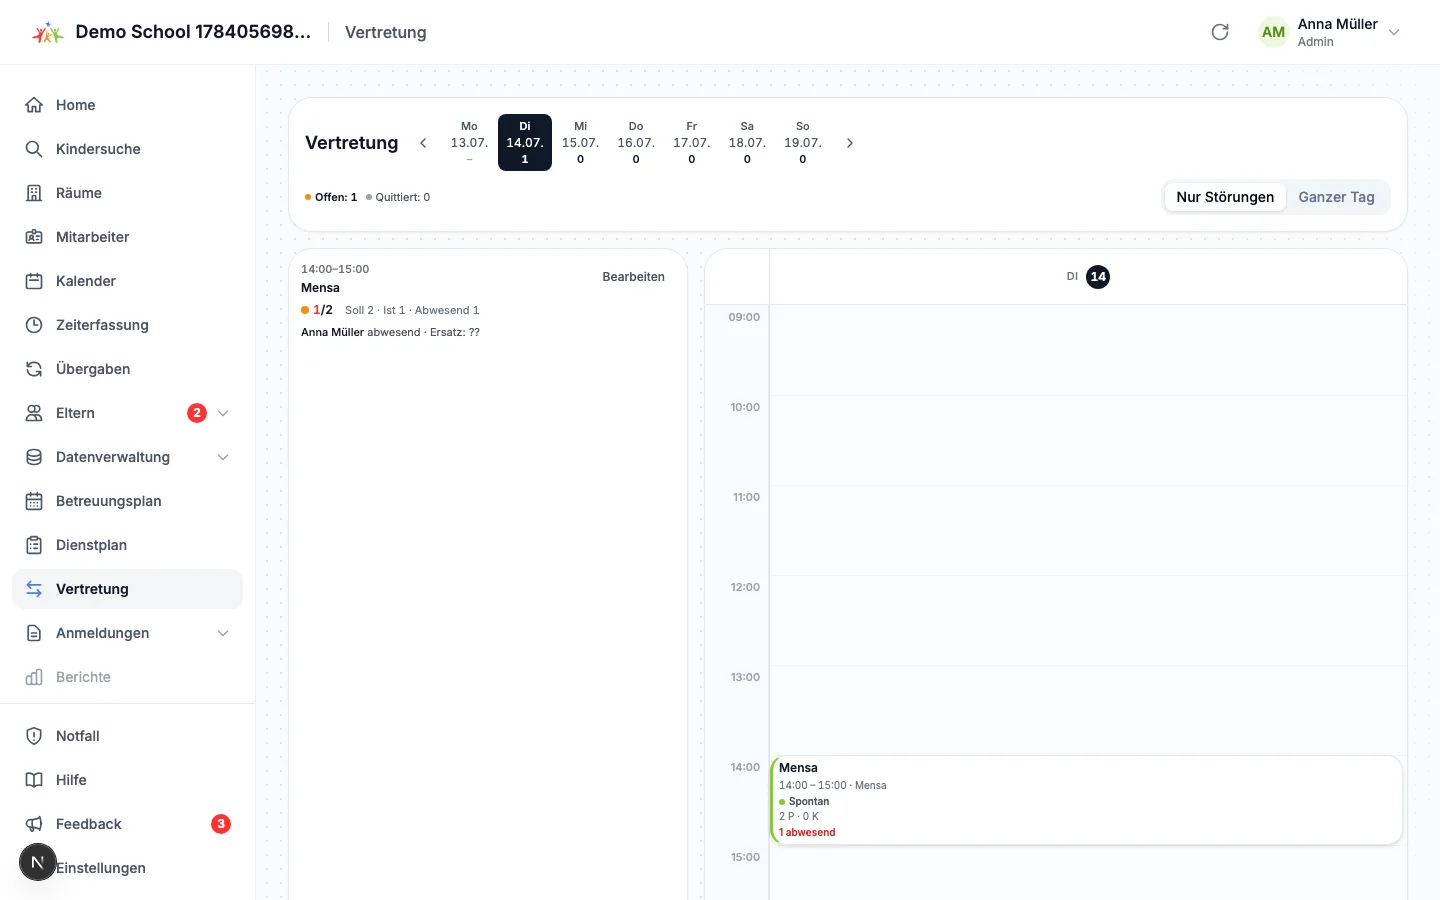
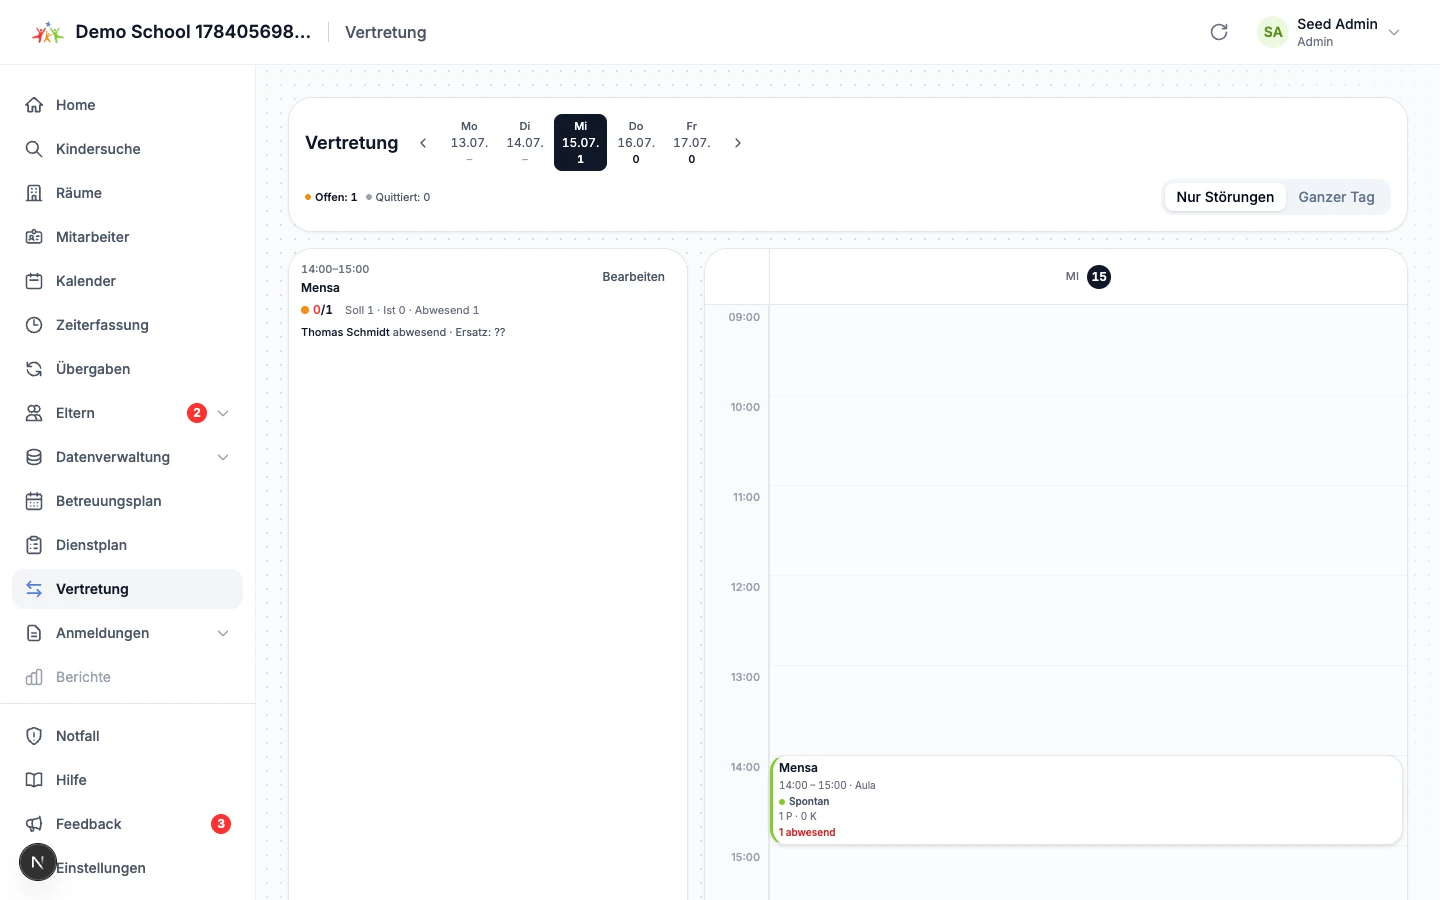
feat(timetable): show only Mo-Fr in the Vertretung week strip
The 7-day chip strip overflowed and clipped Sa/So on narrow widths, and
OGS care never runs on weekends. The strip now renders Mo-Fr only; a
weekend dayISO (initial load on Sat/Sun or a ?d= deep link) snaps to the
following Monday via the new nextWorkdayISO helper, and the Heute button
targets that Monday on weekends. Day chips drop to px-1 below the sm
breakpoint so five chips plus both chevrons fit a 360px viewport.

Deliberate business-rule change in existing e2e: test data anchors on
nextWorkdayISO(today) and adjacentDayInSameWeek steps backward on Friday
instead of clicking the removed Sa chip. Help guide text and the
vertretungsplan.webp screenshot updated to match.

diff --git a/frontend/src/components/timetable/vertretung-view.tsx b/frontend/src/components/timetable/vertretung-view.tsx
@@ -10,8 +10,10 @@
  * atomaren Deviations-Pfad. Es gibt keine eigene Vertretungs-Entität.
  *
  * URL-Vokabular: höchstens `d`, `block`, `verlauf` (Abschnitt 1). `d` ist der
- * angezeigte Berlin-Kalendertag (ohne `d` gilt heute), `block` öffnet den
- * Editor für die materialisierte Instanz mit dieser ID, `verlauf=1` schaltet
+ * angezeigte Berlin-Kalendertag (ohne `d` gilt heute; Wochenendtage werden auf
+ * den folgenden Montag normalisiert, die Leiste zeigt nur Mo–Fr), `block`
+ * öffnet den Editor für die materialisierte Instanz mit dieser ID,
+ * `verlauf=1` schaltet
  * den Editor auf den Verlaufs-Reiter. Der Filterzustand "Nur Störungen |
  * Ganzer Tag" ist lokaler State, kein URL-Parameter.
  *
@@ -60,6 +62,7 @@ import {
   getGermanWeekdayShort,
   getWeekRange,
   getWeekdays,
+  nextWorkdayISO,
 } from "~/lib/timetable-helpers";
 import type { ApplyDeviationsInput } from "~/lib/timetable-types";
 
@@ -92,19 +95,28 @@ function VertretungContent() {
   const canManageSchedules = hasPermission(session, "schedules:manage");
 
   // URL-Vokabular: d / block / verlauf — sonst nichts (Abschnitt 1).
-  const dayISO = searchParams.get("d") ?? berlinTodayISO();
+  // Wochenendtage (Erstaufruf am Sa/So oder ?d=-Deeplink) snappen auf den
+  // folgenden Montag — der eine Guard am Lese-Ort deckt alle Pfade ab, weil
+  // dayISO nach jedem replaceState hier re-derived wird.
+  const dayISO = nextWorkdayISO(searchParams.get("d") ?? berlinTodayISO());
   const selectedInstanceId = searchParams.get("block");
   const historyOpen = searchParams.get("verlauf") === "1";
 
   const today = berlinTodayISO();
+  // Ziel des Heute-Buttons: am Wochenende der nächste Montag. `today` selbst
+  // bleibt überall sonst der echte Kalendertag (isPast, Gaps-Klemmung).
+  const todayTarget = nextWorkdayISO(today);
 
-  // Woche (Mo-So), die `d` enthält. Immer über den Montag ankern, nie
-  // getWeekdays(parseISODate(d)) direkt: getWeekdays validiert nicht, dass sein
-  // Argument ein Montag ist.
+  // Woche, die `d` enthält (Fetch-Fenster bleibt Mo-So, die Leiste zeigt nur
+  // Mo-Fr). Immer über den Montag ankern, nie getWeekdays(parseISODate(d))
+  // direkt: getWeekdays validiert nicht, dass sein Argument ein Montag ist.
   const range = useMemo(() => getWeekRange(parseISODate(dayISO), 0), [dayISO]);
   const fromISO = toISODate(range.from);
   const toISO = toISODate(range.to);
-  const weekDays = useMemo(() => getWeekdays(range.from), [range.from]);
+  const weekDays = useMemo(
+    () => getWeekdays(range.from).slice(0, 5),
+    [range.from],
+  );
 
   const updateUrlParams = useCallback(
     (updates: Record<string, string | null>) => {
@@ -373,7 +385,9 @@ function VertretungContent() {
         onNext={() => goToDay(shiftDayISO(dayISO, 7))}
         previousLabel="Vorherige Woche"
         nextLabel="Nächste Woche"
-        onToday={dayISO !== today ? () => goToDay(today) : undefined}
+        onToday={
+          dayISO !== todayTarget ? () => goToDay(todayTarget) : undefined
+        }
         navigationSlot={
           <div className="flex items-center gap-0.5">
             {weekDays.map((day) => {

diff --git a/frontend/src/components/help/guide-data.ts b/frontend/src/components/help/guide-data.ts
@@ -714,9 +714,9 @@ export const appChapters: readonly GuideChapter[] = [
         summary:
           "Zeigt für den heutigen Tag alle gestörten Positionen des Betreuungsplans und öffnet für jeden Block einen Editor für Abwesenheit, Ersatz, bewusst unbesetzte Blöcke oder eine Absage (nur für Admins).",
         steps: [
-          "`Vertretung` in der Seitenleiste öffnen. Die Seite zeigt zunächst den heutigen Tag.",
+          "`Vertretung` in der Seitenleiste öffnen. Die Seite zeigt zunächst den heutigen Tag (am Wochenende den nächsten Montag).",
           "Links steht die Störungsliste des Tages: jede betroffene Position mit dem Soll/Ist/Abwesend-Tripel. Eine abwesende Person ohne eingetragenen Ersatz zeigt `Ersatz: ??`, eine bewusst unbesetzte Position `bewusst unbesetzt`, ein abgesagter Termin `abgesagt` mit Grund. Rechts zeigt der Tageskalender denselben Tag zur Orientierung; auf schmalen Bildschirmen entfällt die Kalenderspalte, die Liste bleibt allein bedienbar.",
-          "Oben in der Wochenleiste zeigt jeder Tages-Chip die Zahl offener Lücken dieses Tages; ein Klick wechselt den Tag, die Pfeile springen wochenweise, `Heute` kehrt zum aktuellen Tag zurück. Daneben zeigen zwei Zähler `Offen` und `Quittiert` die offenen bzw. bewusst unbesetzten Lücken des angezeigten Tages; für vergangene Tage oder bei einem Ladefehler erscheint ein Strich statt einer erfundenen Null.",
+          "Oben in der Wochenleiste (Montag bis Freitag) zeigt jeder Tages-Chip die Zahl offener Lücken dieses Tages; ein Klick wechselt den Tag, die Pfeile springen wochenweise, `Heute` kehrt zum aktuellen Tag zurück. Daneben zeigen zwei Zähler `Offen` und `Quittiert` die offenen bzw. bewusst unbesetzten Lücken des angezeigten Tages; für vergangene Tage oder bei einem Ladefehler erscheint ein Strich statt einer erfundenen Null.",
           "Mit dem Umschalter `Nur Störungen | Ganzer Tag` zwischen der reinen Störungsliste und allen Terminen des Tages wechseln. Ein Tag ohne Störungen zeigt automatisch alle Termine mit dem Hinweis `Keine Störungen an diesem Tag`.",
           "Bei einer Position `Bearbeiten` anklicken, um den Editor zu öffnen. Unter `Aktion` zwischen zwei Zweigen wählen: `Besetzung bearbeiten` markiert eine Person als abwesend, öffnet dafür eine Ersatzauswahl und erlaubt, den Block als `Bewusst unbesetzt` zu markieren, wenn keine Ersatzperson verfügbar ist; `Block absagen` sagt den Termin ab, optional mit einem Grund. Beide Zweige schließen sich gegenseitig aus.",
           "Ein einziges `Speichern` überträgt Abwesenheit, Ersatz, `Bewusst unbesetzt` oder Absage gemeinsam als eine Änderung. Der Regeltermin im Betreuungsplan bleibt dabei unverändert.",

diff --git a/frontend/src/components/timetable/vertretung-view.test.tsx b/frontend/src/components/timetable/vertretung-view.test.tsx
@@ -277,6 +277,63 @@ describe("VertretungView", () => {
     ).not.toBeInTheDocument();
   });
 
+  it("renders exactly the five Mo–Fr chips, never Sa/So", () => {
+    render(<VertretungView />);
+
+    for (const label of [
+      "Mo 13.07.",
+      "Di 14.07.",
+      "Mi 15.07.",
+      "Do 16.07.",
+      "Fr 17.07.",
+    ]) {
+      expect(screen.getByRole("button", { name: label })).toBeInTheDocument();
+    }
+    expect(
+      screen.queryByRole("button", { name: "Sa 18.07." }),
+    ).not.toBeInTheDocument();
+    expect(
+      screen.queryByRole("button", { name: "So 19.07." }),
+    ).not.toBeInTheDocument();
+  });
+
+  it("snaps a weekend deep link to the following Monday", () => {
+    mockSearch.value = "d=2026-07-18"; // Samstag
+    render(<VertretungView />);
+
+    // Angezeigt wird Montag der Folgewoche, dessen Chip ist selektiert.
+    expect(screen.getByRole("button", { name: "Mo 20.07." })).toHaveClass(
+      "bg-gray-900",
+    );
+    const props = mockDayListProps.mock.calls.at(-1)?.[0];
+    expect(props.instances).toEqual([]);
+  });
+
+  it("defaults to next Monday on a weekend and hides the Heute button", () => {
+    // Samstag 2026-07-18, Berlin (Sommerzeit UTC+2).
+    vi.setSystemTime(new Date("2026-07-18T12:00:00Z"));
+    render(<VertretungView />);
+
+    expect(screen.getByRole("button", { name: "Mo 20.07." })).toHaveClass(
+      "bg-gray-900",
+    );
+    // dayISO == Heute-Ziel (nächster Montag) -> kein Heute-Button.
+    expect(
+      screen.queryByRole("button", { name: "Heute" }),
+    ).not.toBeInTheDocument();
+  });
+
+  it("navigates to next Monday when Heute is clicked on a weekend", () => {
+    vi.setSystemTime(new Date("2026-07-18T12:00:00Z")); // Samstag
+    mockSearch.value = "d=2026-07-15";
+    render(<VertretungView />);
+
+    fireEvent.click(screen.getByRole("button", { name: "Heute" }));
+    expect(new URLSearchParams(window.location.search).get("d")).toBe(
+      "2026-07-20",
+    );
+  });
+
   it("respects d, opens the editor for block, and starts on the Verlauf tab for verlauf=1", () => {
     mockSearch.value = "d=2026-07-16&block=43&verlauf=1";
     render(<VertretungView />);

diff --git a/frontend/e2e/vertretung-flow.spec.ts b/frontend/e2e/vertretung-flow.spec.ts
@@ -3,6 +3,7 @@ import { readFileSync } from "node:fs";
 import { join } from "node:path";
 
 import { berlinTodayISO } from "../src/lib/date-helpers";
+import { nextWorkdayISO } from "../src/lib/timetable-helpers";
 
 // Chunk 8 des Planung-Redesigns Inkrement 2
 // (docs/planung-redesign/docs/07-vertretung.md Abschnitt 12/13): der Zweiteiler
@@ -149,7 +150,9 @@ test.describe("Vertretung UI-Flow (#1886, Inkrement 2)", () => {
     test.setTimeout(90000);
 
     // --- Testdaten anlegen (spontaner Termin mit genau einer Person) --------
-    const day = berlinTodayISO();
+    // Die View zeigt nur Mo–Fr und snappt Wochenendtage auf den nächsten
+    // Montag — Testdaten also immer auf einen Werktag legen.
+    const day = nextWorkdayISO(berlinTodayISO());
     const rooms = (await (
       await page.request.get(`${base}/api/rooms`)
     ).json()) as
@@ -366,8 +369,9 @@ test.describe("Vertretung UI-Flow (#1886, Inkrement 2)", () => {
 });
 
 /**
- * Ein anderer Tag derselben Mo-So-Woche wie `iso` (für den Tag-Chip-Klick).
- * Sonntag weicht rückwärts aus, alle anderen Tage vorwärts.
+ * Ein anderer Tag derselben Mo–Fr-Leiste wie `iso` (für den Tag-Chip-Klick).
+ * `iso` ist immer ein Werktag (nextWorkdayISO); Freitag weicht rückwärts aus,
+ * alle anderen Tage vorwärts.
  */
 function adjacentDayInSameWeek(iso: string): {
   iso: string;
@@ -375,7 +379,7 @@ function adjacentDayInSameWeek(iso: string): {
   mm: string;
 } {
   const noon = new Date(`${iso}T12:00:00`);
-  const delta = noon.getDay() === 0 ? -1 : 1; // 0 = Sonntag
+  const delta = noon.getDay() === 5 ? -1 : 1; // 5 = Freitag
   noon.setDate(noon.getDate() + delta);
   const pad = (n: number) => String(n).padStart(2, "0");
   const dd = pad(noon.getDate());

diff --git a/frontend/src/lib/timetable-helpers.test.ts b/frontend/src/lib/timetable-helpers.test.ts
@@ -43,6 +43,7 @@ import {
   mapShiftCoverageCheckResult,
   mapTemplates,
   mapWeeklyInstances,
+  nextWorkdayISO,
   parseTimeToMinutes,
   resolveTemplateCalendarPeriodId,
   toISODate,
@@ -165,6 +166,16 @@ describe("date and range helpers", () => {
     expect(weekdayDatesInRange("bad", "2026-04-08", [1])).toEqual([]);
     expect(weekdayDatesInRange("2026-04-09", "2026-04-08", [1])).toEqual([]);
     expect(weekdayDatesInRange("2026-04-06", "2026-04-08", [0, 8])).toEqual([]);
+  });
+
+  it("snaps weekend dates to the following Monday, weekdays pass through", () => {
+    expect(nextWorkdayISO("2026-07-18")).toBe("2026-07-20"); // Sa -> Mo
+    expect(nextWorkdayISO("2026-07-19")).toBe("2026-07-20"); // So -> Mo
+    expect(nextWorkdayISO("2026-07-15")).toBe("2026-07-15"); // Mi bleibt
+    expect(nextWorkdayISO("2026-07-20")).toBe("2026-07-20"); // Mo bleibt
+    expect(nextWorkdayISO("2026-07-17")).toBe("2026-07-17"); // Fr bleibt
+    expect(nextWorkdayISO("2026-08-01")).toBe("2026-08-03"); // Monatswechsel
+    expect(nextWorkdayISO("2027-01-03")).toBe("2027-01-04"); // Jahreswechsel
   });
 
   it("formats German labels", () => {

diff --git a/frontend/src/lib/timetable-helpers.ts b/frontend/src/lib/timetable-helpers.ts
@@ -7,7 +7,7 @@
  * /api/timetable/instances endpoint.
  */
 
-import { toISODate } from "./date-helpers";
+import { parseISODate, toISODate } from "./date-helpers";
 import { LOCATION_COLORS } from "./location-helper";
 import type {
   ActivityType,
@@ -282,6 +282,18 @@ export function getWeekdays(from: Date): Date[] {
     days.push(d);
   }
   return days;
+}
+
+/**
+ * Snappt ein Wochenend-Datum auf den folgenden Montag; Mo–Fr unverändert.
+ * OGS-Betrieb ist Mo–Fr — die Vertretung zeigt nie einen Wochenendtag an.
+ */
+export function nextWorkdayISO(iso: string): string {
+  const d = parseISODate(iso);
+  const day = d.getDay(); // 0 = So, 6 = Sa
+  if (day === 6) d.setDate(d.getDate() + 2);
+  else if (day === 0) d.setDate(d.getDate() + 1);
+  return toISODate(d);
 }
 
 export function getMonthRange(ref: Date): { from: Date; to: Date } {

diff --git a/frontend/src/components/ui/planning-context-bar.tsx b/frontend/src/components/ui/planning-context-bar.tsx
@@ -155,7 +155,7 @@ export function PlanningDayChip({
       onClick={onClick}
       aria-label={ariaLabel}
       className={[
-        "flex flex-col items-center rounded-md px-2 py-1 text-center focus-visible:ring-2 focus-visible:ring-gray-900 focus-visible:outline-none",
+        "flex flex-col items-center rounded-md px-1 py-1 text-center focus-visible:ring-2 focus-visible:ring-gray-900 focus-visible:outline-none sm:px-2",
         selected
           ? "bg-gray-900 text-white"
           : "text-gray-600 hover:bg-gray-100 hover:text-gray-900",
